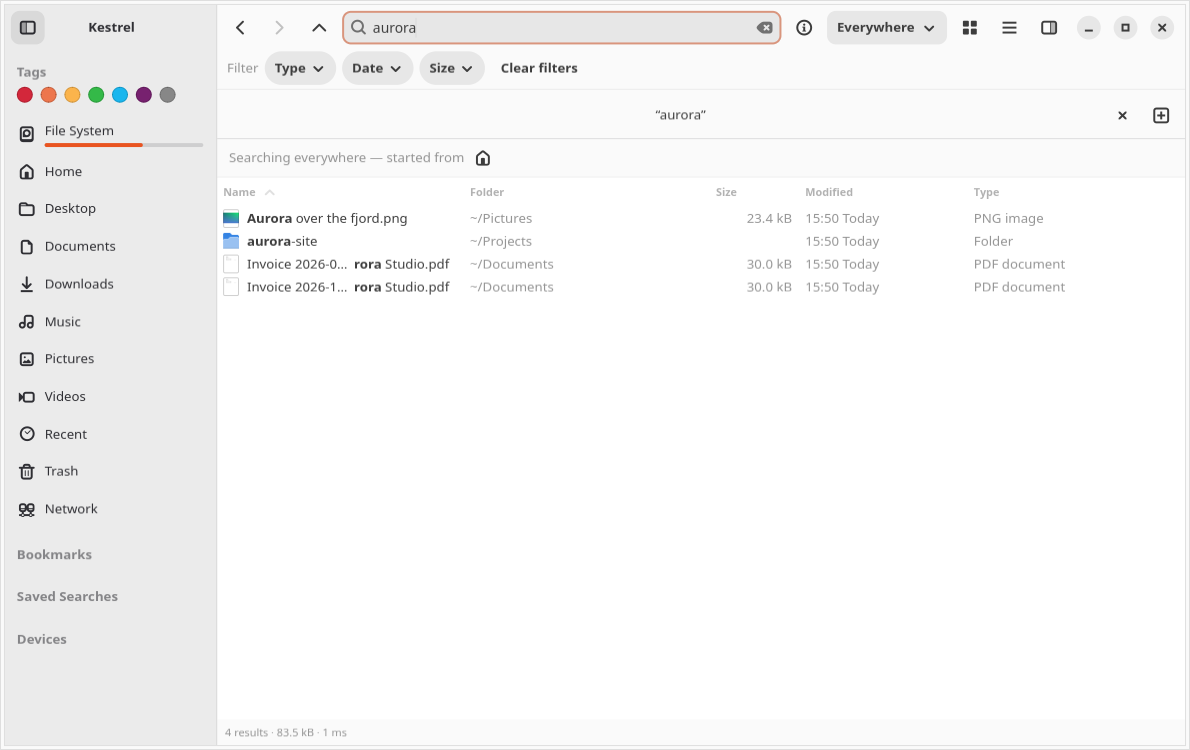
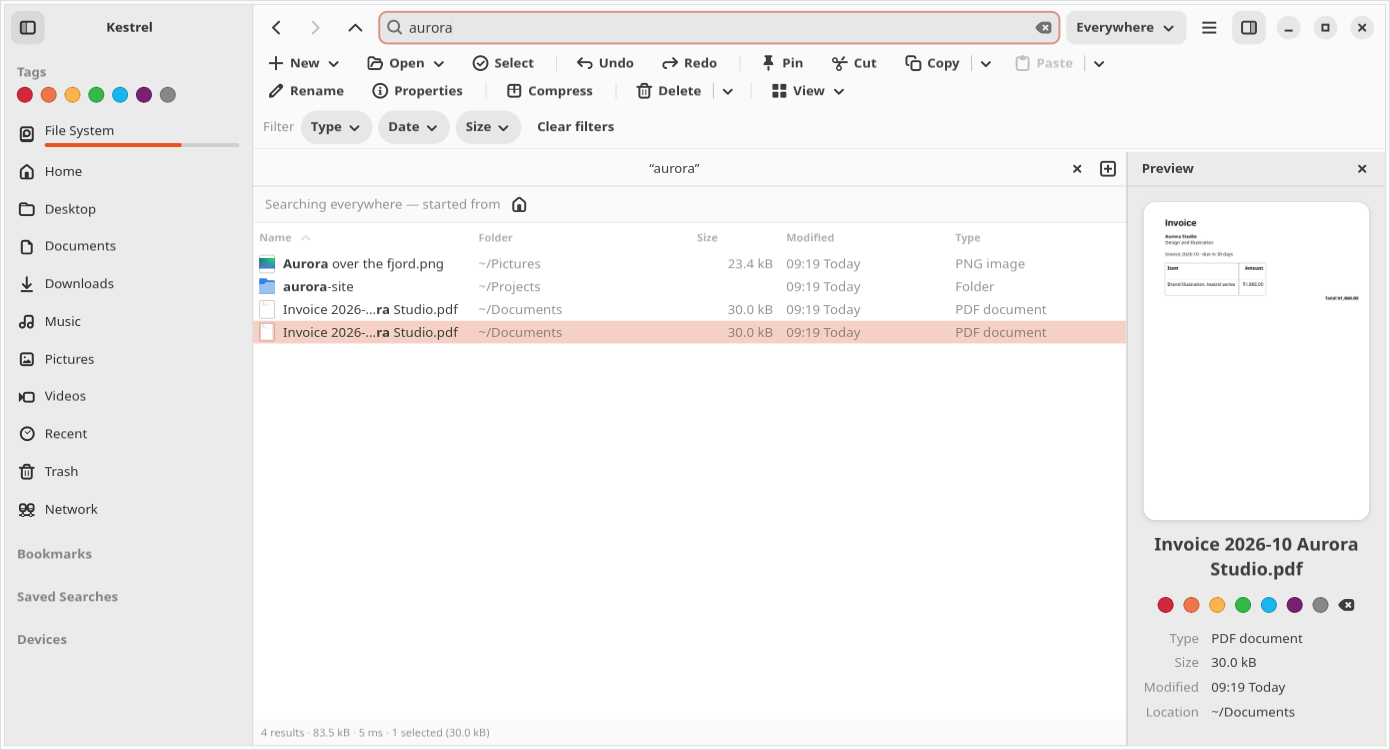
README: command bar, Select mode, Redo; new screenshots
Screenshots retaken with the command bar, plus a fourth showing Select
mode's checkboxes. Features, keyboard table and test descriptions cover
the 0.9.23-0.9.27 changes.

diff --git a/README.md b/README.md
@@ -44,6 +44,12 @@ it happens, and pick out the one file you want the moment you ask for it.
 <td align="center"><sub>Search understands types: <code>.iso</code>, <code>pdf</code>, <code>excel</code></sub></td>
 <td align="center"><sub>Preview PDFs, Office documents, Markdown, media and archives</sub></td>
 </tr>
+<tr>
+<td colspan="2"><img src="docs/screenshots/select.png" alt="The command bar, and Select mode with checkboxes ticked on two invoices"></td>
+</tr>
+<tr>
+<td colspan="2" align="center"><sub>A command bar like Explorer's, and Select mode: tick the files you want</sub></td>
+</tr>
 </table>
 
 ## Features
@@ -56,10 +62,12 @@ it happens, and pick out the one file you want the moment you ask for it.
 - `ks`: the same search on the command line, like Everything's `es.exe`
 
 **File manager**
+- A command bar like Windows Explorer's: New, Open, Select, Undo, Redo, Pin, Cut, Copy, Paste, Rename, Properties, Compress, Extract, Delete, View. One row in a maximised window, two in a smaller one
+- Select mode: a checkbox on every file, so you can tick exactly the ones you want (All / None / Invert too)
 - Tabs, dual pane (F3), details / grid / column views, session restore
 - Editable path bar (Ctrl+L), bookmarks shared with GNOME Files, Trash with restore
 - A Network page like GNOME Files': connected shares, servers you've used (shared with Files), what's on your network, and Connect to Server
-- Copy, move, rename, undo; clipboard compatible with GNOME Files; drag and drop
+- Copy, move, rename, undo and redo; Paste as Link (symlinks); new folders and empty files; clipboard compatible with GNOME Files; drag and drop
 - Name clashes ask *Skip / Keep Both / Replace*; one failed item never stops a batch
 - Batch rename: find and replace (or regex), case changes, numbering, live preview
 - Colour tags, git status column and branch, symlink badges, free-space bars on drives
@@ -207,6 +215,8 @@ Open **Search Syntax** from the menu (or the command palette, Ctrl+Shift+P) for 
 | Space or Alt+P | preview pane | Ctrl+\` | terminal panel |
 | F2 | rename (batch with several selected) | Alt+Return | properties |
 | Delete / Shift+Delete | trash / delete | Ctrl+Z | undo |
+| Ctrl+Shift+Z or Ctrl+Y | redo | Ctrl+Shift+N | new folder |
+| Ctrl+A / Ctrl+Shift+A | select all / none | Ctrl+Shift+I | invert selection |
 | Ctrl+Shift+P | command palette | Ctrl+, | preferences |
 | Ctrl+H | hidden files | F9 | sidebar |
 
@@ -221,15 +231,17 @@ KESTREL_7ZZ=$PWD/packaging/7zip/7zz cargo test --workspace
   Extract produces. Samples live in `crates/kestrel/tests/fixtures/archives/` and are built by
   `scripts/make-archive-fixtures.sh`; a new extension fails the test until it has one.
   Per-format report: `cargo test -p kestrel every_format -- --nocapture`.
-- **`scripts/ui-check.sh`** drives the real app through 30 screens under a virtual display
+- **`scripts/ui-check.sh`** drives the real app through 35 screens under a virtual display
   (views, previews, dialogs, batch rename, terminal, search and its empty/off states, a folder
-  you can't open, Extract and its conflict prompt, Trash) with a throwaway home folder and its
+  you can't open, Extract and its conflict prompt, Trash, the command bar in one and two rows,
+  Select mode) with a throwaway home folder and its
   own small search service, checks 5 results along the way, fails on any GTK warning or error
   page, and saves every screen to `target/ui-check/`.
 - **`scripts/feature-test.py`** uses the app the way a person does: it clicks, types and presses
   shortcuts through the accessibility layer under a virtual display, then checks the result on disk
-  and on screen. 50 tests cover navigation, tabs, windows, session restore, views, bookmarks, dual pane,
-  copy/move/rename/trash/restore/delete and name clashes, batch rename, tags, search (typing, type
+  and on screen. 57 tests cover navigation, tabs, windows, session restore, views, bookmarks, dual pane,
+  copy/move/rename/undo/redo/trash/restore/delete and name clashes, new files, Paste as Link, Select
+  mode and its checkboxes, batch rename, tags, search (typing, type
   ranking, scopes, tags, content, saved searches, the query language), previews, properties and
   checksums, the palette, preferences, the terminal, Nautilus scripts, git status, opening files and
   Show in Folder. Failures leave a screenshot and a dump of what was on screen in
